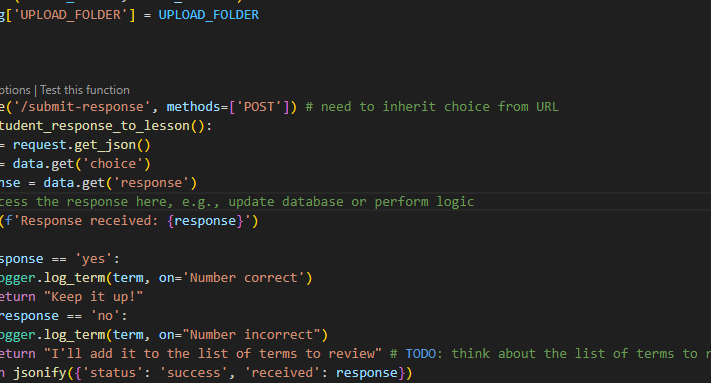
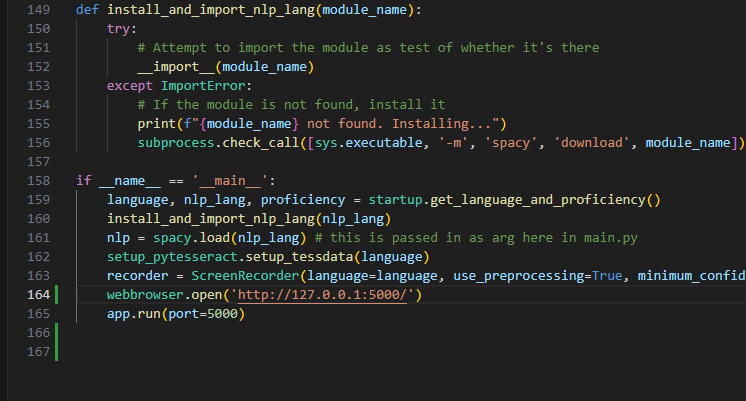
open webbrowser automatically upon launch

Changed region(s): [[0.0, 0.0862, 1.0, 1.0], [0.0, 0.0, 0.557, 0.1723], [0.6498, 0.3446, 1.0, 0.3734]]

diff --git a/main.py b/main.py
@@ -7,6 +7,8 @@ import LLMserver
 import logger
 import subprocess
 import sys
+import webbrowser
+import time
 
 '''
 TODO: check out Koboldcpp for a means to deploy LLM server 
@@ -159,4 +161,7 @@ if __name__ == '__main__':
     nlp = spacy.load(nlp_lang) # this is passed in as arg here in main.py
     setup_pytesseract.setup_tessdata(language)
     recorder = ScreenRecorder(language=language, use_preprocessing=True, minimum_confidence=50, config=r'', time_between_screencaps=1) #'--oem 3 --psm 11 -l chi_sim'
+    webbrowser.open('http://127.0.0.1:5000/')
     app.run(port=5000)
+
+    
